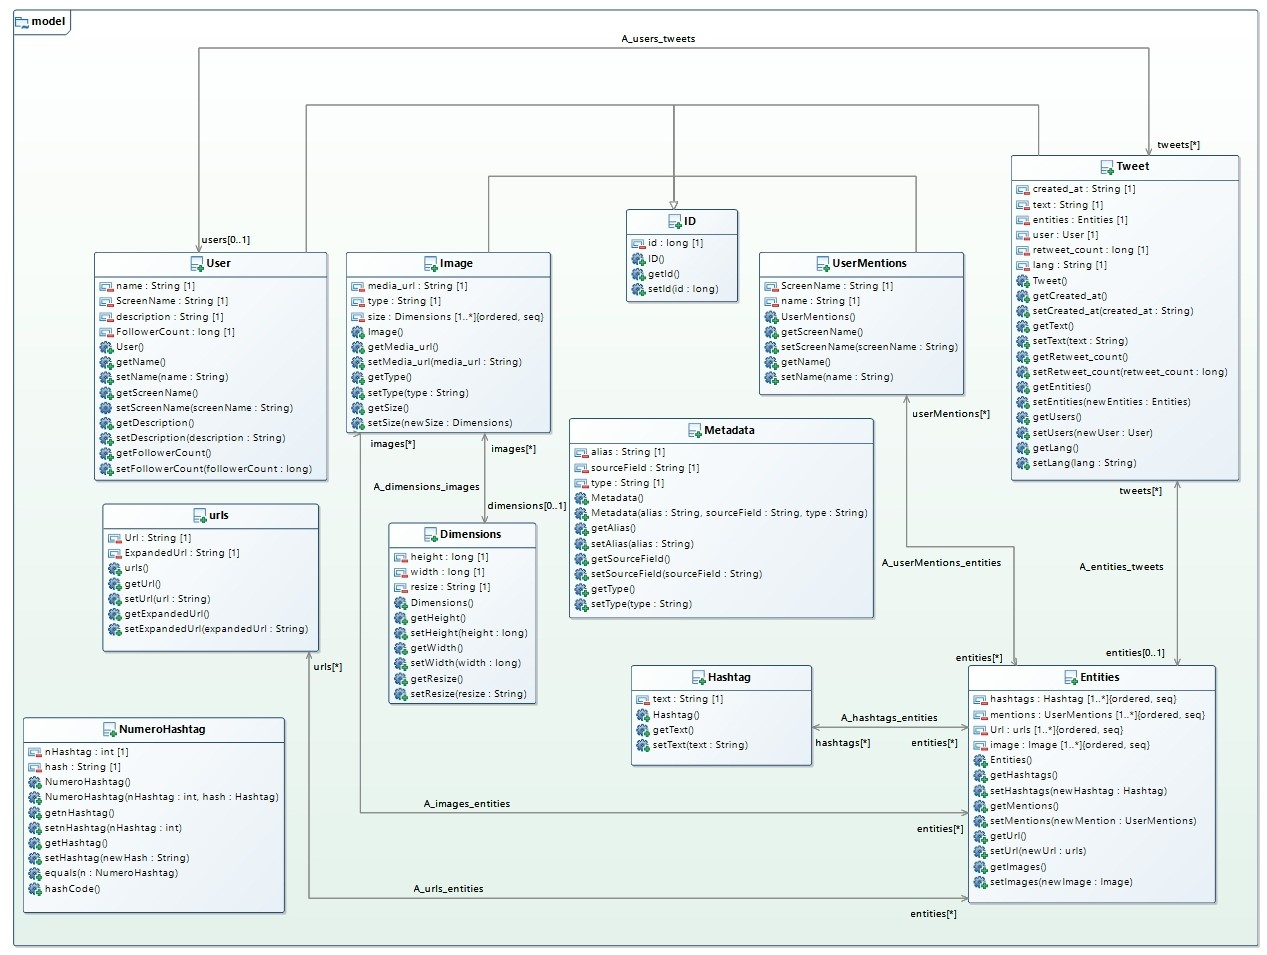
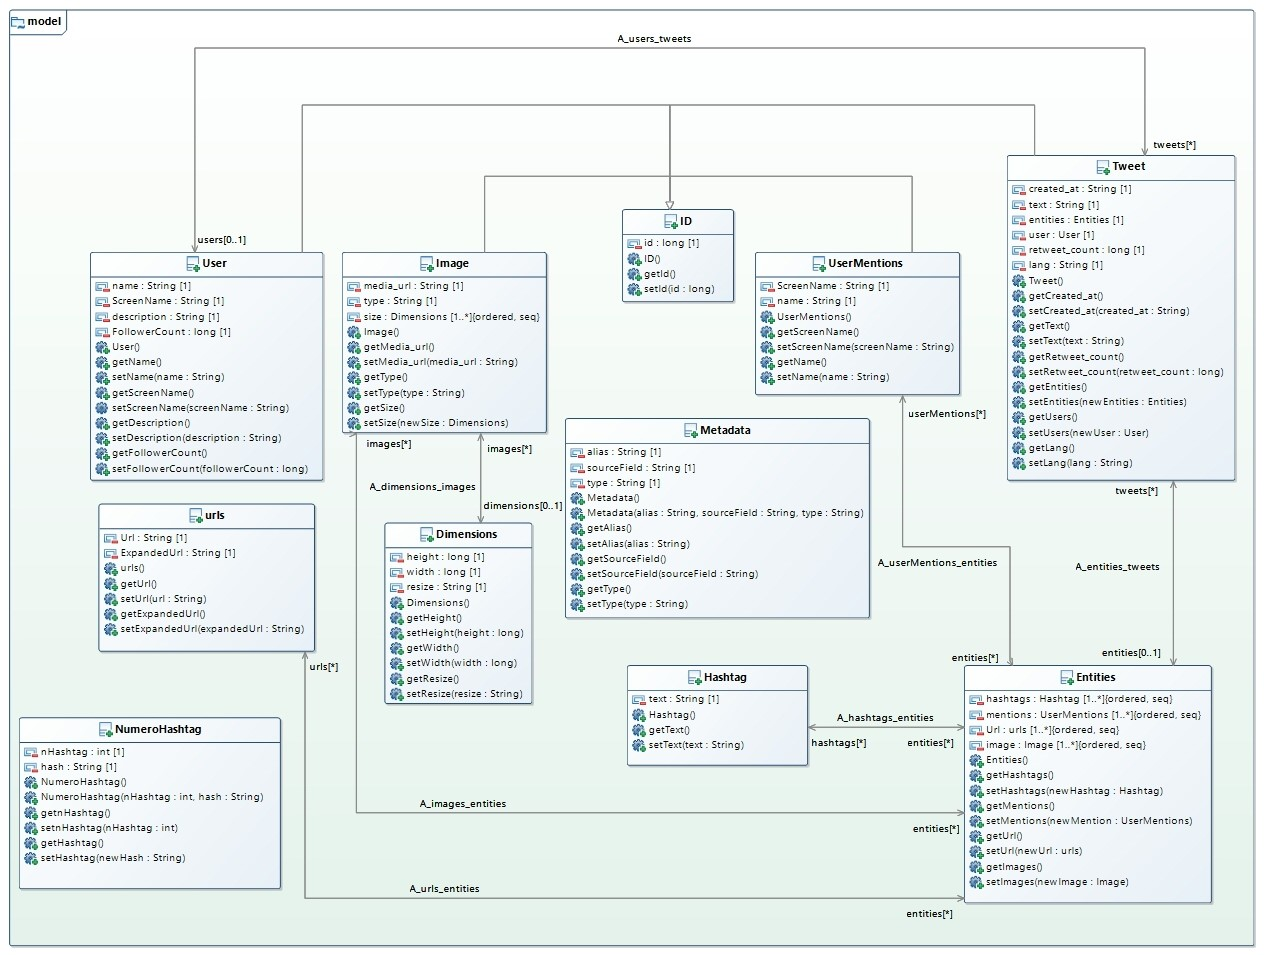
modifica uml

diff --git a/ProgettoOOP/src/main/java/it/univpm/ProgettoOOP/util/stats/StatsHashtags.java b/ProgettoOOP/src/main/java/it/univpm/ProgettoOOP/util/stats/StatsHashtags.java
@@ -9,22 +9,30 @@ import it.univpm.ProgettoOOP.service.JSONParse;
 
 public class StatsHashtags {
 	
+	/**
+	 * Questo metodo permette di filtrare i tweet in base all'user che l'ha creato.
+	 * Viene utilizzato per contare quante volte un hashtag compare nei tweet scritti dall'utente
+	 * @param tw ArrayList di Tweet filtrato
+	 * @return un ArrayList di tipo NumeroHashtag con all'interno tutti gli hashtag con il relativo conteggio
+	 */
 	public ArrayList<NumeroHashtag> HashtagTweet(ArrayList<Tweet> tw){
 		
 		ArrayList<NumeroHashtag> nHash = new ArrayList<NumeroHashtag>();
 		int z = 0;
 		NumeroHashtag a = new NumeroHashtag();
-
-		for(Tweet t:tw) {	
+		
+		for(Tweet t:tw) {
 			a.setnHashtag(0);
-				for(int i=0; i<t.getEntities().size(); i++) { //prende entità
-					for(int j=0; j<t.getEntities().get(i).getHashtags().size();j++) { //prende gli hashtag	
-						a.setHashtag(t.getEntities().get(i).getHashtags().get(j).getText());
-						if(!nHash.contains(a))
-							nHash.add(a);//prende il singolo hashtag	
+			for(int i=0; i<t.getEntities().size(); i++) { //prende entità
+				for(int j=0; j<t.getEntities().get(i).getHashtags().size();j++) { //prende gli hashtag	
+					a.setHashtag(t.getEntities().get(i).getHashtags().get(j).getText()); //prende il singolo hashtag
+					if(!nHash.contains(a)) {
+						nHash.add(a);
 					}
 				}
+			}
 		}
+
 		for(NumeroHashtag n: nHash) {
 			String b = n.getHashtag();
 			for(Tweet t: tw) {
@@ -40,6 +48,12 @@ public class StatsHashtags {
 		return nHash;		
 	}
 	
+	/**
+	 * Questo metodo permette di contare tutti gli hashtag che sono contenuti all'interno di un tweet.
+	 * Il conteggio di hashtag per ogni tweet viene poi salvato all'interno di un array che poi verrà
+	 * passato al metodo all'interno della ControllerClass
+	 * @return un array di interi contenente il numero di hashtag per ogni tweet
+	 */
 	public int[] NumHashtag() {
 		
 		ArrayList<Tweet> tw = JSONParse.ParseInformazioni();

diff --git a/ProgettoOOP/src/main/java/it/univpm/ProgettoOOP/model/NumeroHashtag.java b/ProgettoOOP/src/main/java/it/univpm/ProgettoOOP/model/NumeroHashtag.java
@@ -2,76 +2,58 @@ package it.univpm.ProgettoOOP.model;
 
 import java.util.ArrayList;
 
+/**
+ * Questa classe viene utilizzata per salvare il numero di hashtag per ogni tweet con il relativo 
+ * hashtag utilizzato un numero di volte da un utente
+ * @author Chiara Amalia Caporusso
+ * @author Piero Campitelli
+ *
+ */
+
 public class NumeroHashtag {
 	
 	private int nHashtag;
-//	private ArrayList<Hashtag> hash = new ArrayList<Hashtag>();
 	private String hash;
 
-	/**
-	 * @param nHashtag
-	 */
+	
 	public NumeroHashtag(int nHashtag,String hash) {
 		super();
 		this.nHashtag = nHashtag;
 		this.hash = hash;
 	}
 
-	/**
-	 * 
-	 */
 	public NumeroHashtag() {
 		super();
 		// TODO Auto-generated constructor stub
 	}
 
 	/**
-	 * @return the nHashtag
+	 * @return il numero di hashtag
 	 */
 	public int getnHashtag() {
 		return nHashtag;
 	}
 
 	/**
-	 * @param nHashtag the nHashtag to set
+	 * @param il numero di hashtag settato a un nuovo valore
 	 */
 	public void setnHashtag(int nHashtag) {
 		this.nHashtag = nHashtag;
 	}
 
 	/**
-	 * @return the hashtag
+	 * @return l'hashtag
 	 */
 	public String getHashtag() {
 		return hash;
 	}
 
 	/**
-	 * @param hashtag the hashtag to set
+	 * @param il valore dell'hashtag settato ad un altro valore
 	 */
 	public void setHashtag(String newHash) {
-//		hash.add(newHash);
 		this.hash = newHash;
 	}
 	
-	/**
-	 * Viene utilizzato per confrontare l'uguaglianza tra due hashtag
-	 * @param n oggetto di tipo NumeroHashtag
-	 * @return hash
-	 */
-	public boolean equals(NumeroHashtag n) {
-		if (n == this) {
-			return true;
-		}
-		if (!(n instanceof NumeroHashtag)) {
-			return false;
-		}
-		NumeroHashtag Hash = (NumeroHashtag) n;
-		return this.hash.equals(Hash.hash);
-	}
-
-	public int hashCode() {
-		return hash.hashCode();
-	}
 }
 
